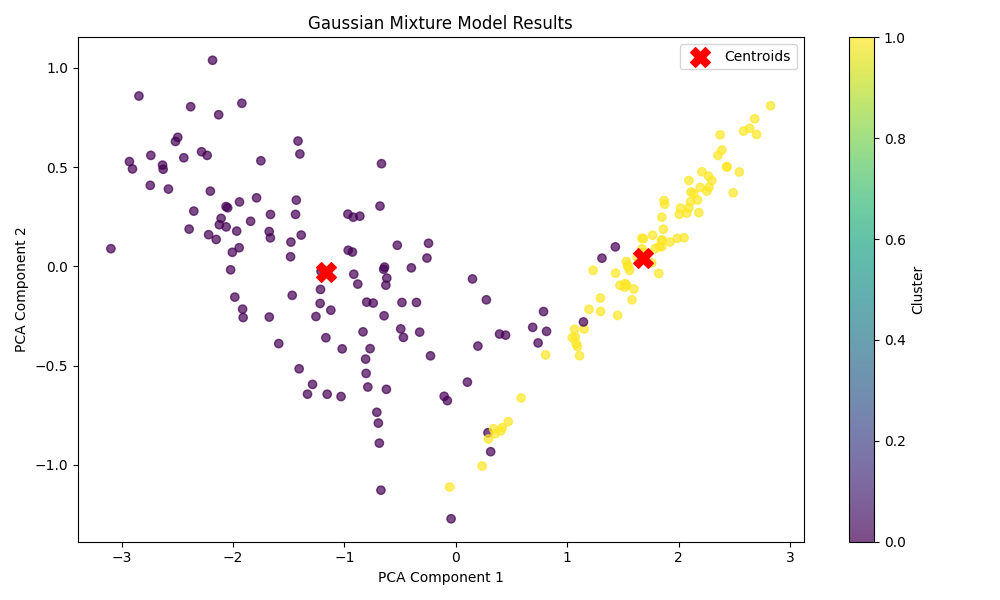
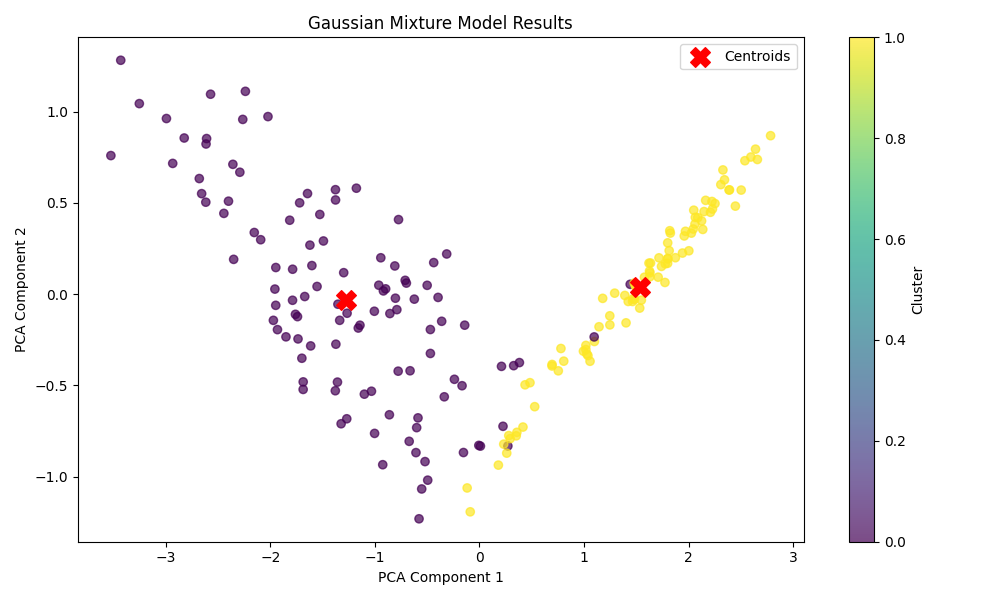
clustering redone

diff --git a/Features_Analysis/Intensity/Data_Analysis/publish2.py b/Features_Analysis/Intensity/Data_Analysis/publish2.py
@@ -36,18 +36,24 @@ def create_histogram_interpolation(data, bins, color, alpha=0.6):
     # Calculate bin centers for interpolation points
     bin_centers = (bin_edges[:-1] + bin_edges[1:]) / 2
 
-    # Add points at the start and end to ensure curve covers full range
-    extended_x = np.concatenate([[data.min()], bin_centers, [data.max()]])
-    extended_y = np.concatenate([[0], counts, [0]])
+    # Filter out bins with zero counts to avoid interpolation issues
+    non_zero_mask = counts > 0
+    if np.sum(non_zero_mask) < 2:
+        # If we have fewer than 2 non-zero bins, use all bins
+        x_points = bin_centers
+        y_points = counts
+    else:
+        x_points = bin_centers[non_zero_mask]
+        y_points = counts[non_zero_mask]
 
-    # Create interpolation function (cubic spline)
-    interp_func = interpolate.interp1d(extended_x, extended_y,
-                                       kind='cubic',
+    # Use linear interpolation to avoid overshooting
+    interp_func = interpolate.interp1d(x_points, y_points,
+                                       kind='linear',
                                        bounds_error=False,
                                        fill_value=0)
 
-    # Generate smooth curve points
-    x_smooth = np.linspace(data.min(), data.max(), 200)
+    # Generate smooth curve points within data range
+    x_smooth = np.linspace(x_points.min(), x_points.max(), 200)
     y_smooth = interp_func(x_smooth)
 
     # Ensure no negative values
@@ -63,7 +69,7 @@ def create_intensity_distribution_comparison_fixed(wing_data, wingtip_distributi
     fig, (ax1, ax2) = plt.subplots(1, 2, figsize=(15, 6))
 
     # 1. Wing Intensity Distribution
-    ax1.set_title('Wing Intensity Distribution', fontsize=14, fontweight='bold')
+    ax1.set_title('Wing Intensity Distribution', fontsize=16, fontweight='bold', pad=20)
     ax1.set_xlabel('Mean Intensity (0-255)')
     ax1.set_ylabel('Density')
 
@@ -71,10 +77,10 @@ def create_intensity_distribution_comparison_fixed(wing_data, wingtip_distributi
         species_data = wing_data[wing_data['species'] == species]['mean_intensity']
         color = SPECIES_COLORS[species]
 
-        # Create histogram bars
+        # Create histogram bars with black edges
         ax1.hist(species_data, bins=INTENSITY_BINS, alpha=0.6,
-                 color=color, density=True,
-                 label=f'{species.replace("_", "-")} (histogram)')
+                 color=color, density=True, edgecolor='black', linewidth=0.8,
+                 label=f'{species.replace("_", "-")}')
 
         # Create proper interpolation curve
         bin_centers, counts, x_smooth, y_smooth = create_histogram_interpolation(
@@ -82,19 +88,24 @@ def create_intensity_distribution_comparison_fixed(wing_data, wingtip_distributi
 
         # Plot interpolation curve
         ax1.plot(x_smooth, y_smooth, color=color, linewidth=2.5,
-                 alpha=0.9, linestyle='-',
-                 label=f'{species.replace("_", "-")} (interpolation)')
+                 alpha=0.9, linestyle='-')
 
-        # Add mean line
+    # Add mean lines after plotting histograms to get proper y-limits
+    for species in wing_data['species'].unique():
+        species_data = wing_data[wing_data['species'] == species]['mean_intensity']
+        color = SPECIES_COLORS[species]
         mean_val = species_data.mean()
         ax1.axvline(mean_val, color=color, linestyle='--', alpha=0.8, linewidth=2)
-        ax1.text(mean_val + 5, ax1.get_ylim()[1] * 0.9, f'Mean: {mean_val:.1f}',
-                 rotation=90, color=color, fontweight='bold', ha='left', va='top')
+        # Position mean labels with larger gap below title, horizontally aligned with the mean line
+        ax1.text(mean_val, 0.98, f'Mean: {mean_val:.1f}',
+                 transform=ax1.get_xaxis_transform(), color=color, fontweight='bold',
+                 ha='center', va='top', fontsize=11)
 
-    ax1.legend()
+    # Position legend further to the right
+    ax1.legend(loc='upper right', bbox_to_anchor=(1.02, 0.98))
 
     # 2. Wingtip Intensity Distribution
-    ax2.set_title('Wingtip Intensity Distribution', fontsize=14, fontweight='bold')
+    ax2.set_title('Wingtip Intensity Distribution', fontsize=16, fontweight='bold', pad=20)
     ax2.set_xlabel('Mean Intensity (0-255)')
     ax2.set_ylabel('Density')
 
@@ -102,10 +113,10 @@ def create_intensity_distribution_comparison_fixed(wing_data, wingtip_distributi
         species_data = wingtip_distribution[wingtip_distribution['species'] == species]['mean_wingtip_intensity']
         color = SPECIES_COLORS[species]
 
-        # Create histogram bars
+        # Create histogram bars with black edges
         ax2.hist(species_data, bins=INTENSITY_BINS, alpha=0.6,
-                 color=color, density=True,
-                 label=f'{species.replace("_", "-")} (histogram)')
+                 color=color, density=True, edgecolor='black', linewidth=0.8,
+                 label=f'{species.replace("_", "-")}')
 
         # Create proper interpolation curve
         bin_centers, counts, x_smooth, y_smooth = create_histogram_interpolation(
@@ -113,16 +124,21 @@ def create_intensity_distribution_comparison_fixed(wing_data, wingtip_distributi
 
         # Plot interpolation curve
         ax2.plot(x_smooth, y_smooth, color=color, linewidth=2.5,
-                 alpha=0.9, linestyle='-',
-                 label=f'{species.replace("_", "-")} (interpolation)')
+                 alpha=0.9, linestyle='-')
 
-        # Add mean line
+    # Add mean lines after plotting histograms to get proper y-limits
+    for species in wingtip_distribution['species'].unique():
+        species_data = wingtip_distribution[wingtip_distribution['species'] == species]['mean_wingtip_intensity']
+        color = SPECIES_COLORS[species]
         mean_val = species_data.mean()
         ax2.axvline(mean_val, color=color, linestyle='--', alpha=0.8, linewidth=2)
-        ax2.text(mean_val + 5, ax2.get_ylim()[1] * 0.9, f'Mean: {mean_val:.1f}',
-                 rotation=90, color=color, fontweight='bold', ha='left', va='top')
+        # Position mean labels with larger gap below title, horizontally aligned with the mean line
+        ax2.text(mean_val, 0.98, f'Mean: {mean_val:.1f}',
+                 transform=ax2.get_xaxis_transform(), color=color, fontweight='bold',
+                 ha='center', va='top', fontsize=11)
 
-    ax2.legend()
+    # Position legend further to the right
+    ax2.legend(loc='upper right', bbox_to_anchor=(1.02, 0.98))
 
     # Ensure both plots have the same x-axis range for better comparison
     x_min = min(wing_data['mean_intensity'].min(), wingtip_distribution['mean_wingtip_intensity'].min())
@@ -184,7 +200,8 @@ def create_overlaid_comparison_fixed(wing_data, wingtip_distribution):
     ax1.set_title('Slaty-backed Gull: Wing vs Wingtip Intensity', fontsize=14, fontweight='bold')
     ax1.set_xlabel('Mean Intensity (0-255)')
     ax1.set_ylabel('Density')
-    ax1.legend()
+    # Move legend to upper right
+    ax1.legend(loc='upper right')
 
     # Species 2: Glaucous-winged Gull
     glaucous_wing = wing_data[wing_data['species'] == 'Glaucous_Winged_Gull']['mean_intensity']
@@ -210,7 +227,8 @@ def create_overlaid_comparison_fixed(wing_data, wingtip_distribution):
     ax2.set_title('Glaucous-winged Gull: Wing vs Wingtip Intensity', fontsize=14, fontweight='bold')
     ax2.set_xlabel('Mean Intensity (0-255)')
     ax2.set_ylabel('Density')
-    ax2.legend()
+    # Move legend to upper right
+    ax2.legend(loc='upper right')
 
     # Ensure consistent x-axis ranges
     all_values = np.concatenate([slaty_wing, slaty_wingtip, glaucous_wing, glaucous_wingtip])
@@ -261,7 +279,8 @@ def create_controlled_kde_comparison(wing_data, wingtip_distribution):
     ax1.set_title('Wing Intensity Distribution (Controlled KDE)', fontsize=14, fontweight='bold')
     ax1.set_xlabel('Mean Intensity (0-255)')
     ax1.set_ylabel('Density')
-    ax1.legend()
+    # Move legend to upper right
+    ax1.legend(loc='upper right')
 
     # 2. Wingtip Intensity Distribution
     for species in wingtip_distribution['species'].unique():
@@ -283,7 +302,8 @@ def create_controlled_kde_comparison(wing_data, wingtip_distribution):
     ax2.set_title('Wingtip Intensity Distribution (Controlled KDE)', fontsize=14, fontweight='bold')
     ax2.set_xlabel('Mean Intensity (0-255)')
     ax2.set_ylabel('Density')
-    ax2.legend()
+    # Move legend to upper right
+    ax2.legend(loc='upper right')
 
     plt.tight_layout()
     plt.savefig(os.path.join(output_dir, 'controlled_kde_comparison.png'),
@@ -316,12 +336,6 @@ def main():
 
     print("Creating wing vs wingtip intensity distribution comparison with proper interpolation...")
     wing_stats, wingtip_stats = create_intensity_distribution_comparison_fixed(wing_data, wingtip_distribution)
-
-    print("Creating within-species comparison with proper interpolation...")
-    create_overlaid_comparison_fixed(wing_data, wingtip_distribution)
-
-    print("Creating controlled KDE comparison...")
-    create_controlled_kde_comparison(wing_data, wingtip_distribution)
 
     print(f"Analysis complete! Charts saved to {output_dir}/")
 

diff --git a/publish/clustering.tex b/publish/clustering.tex
@@ -1,0 +1,168 @@
+\documentclass[a4paper,12pt]{report}
+\usepackage[margin=0.5in]{geometry}
+\usepackage{hyperref}
+\usepackage{setspace}
+\usepackage{lastpage}
+\usepackage{tabularx}
+
+\usepackage[nottoc,numbib]{tocbibind}
+  % Preamble packages:
+\usepackage{booktabs}
+\usepackage{multirow}
+\usepackage{caption}
+\usepackage{multicol}
+\usepackage{caption}
+
+
+
+% for apa with apa
+% \usepackage{natbib}
+% for ieee with IEEEtran
+\usepackage[numbers]{natbib}
+\usepackage{float}
+\usepackage{grffile}  % Add to preamble
+\usepackage{titlesec} % Add this line for chapter formatting
+
+\usepackage{graphicx}
+
+\usepackage{float} % If you use [H] placement
+
+
+% Required in preamble
+\usepackage{pgfplots}      % Core plotting package
+\pgfplotsset{compat=1.18} % Set compatibility mode (use newest version available) % For general graphics handling (usually auto-loaded)
+
+% Required packages in preamble
+\usepackage{algorithm}      % For algorithm float environment
+\usepackage{algpseudocode}  % For algorithmic structure (functions, loops, etc.)
+\usepackage{xspace}         % For smart spacing after macros (optional but recommended)
+
+\usepackage{csquotes}
+
+\renewcommand{\familydefault}{\sfdefault}
+\usepackage{helvet}
+\usepackage{amsmath}
+\usepackage{tikz}
+\usetikzlibrary{positioning}
+
+\renewcommand{\contentsname}{Table of Contents}
+
+\usepackage{graphicx}
+\usepackage{subcaption}
+\usepackage{adjustbox}
+
+\usepackage{booktabs} % For professional quality tables
+\usepackage{caption}  % For captions of figures and tables
+\usepackage{subcaption} % For subfigures within a figure environment
+% \usepackage[backend=biber, style=apa]{biblatex} % Example for bibliography (if needed, adapt style)
+% \addbibresource{references.bib} % Link to your bibliography file
+% \usepackage{hyperref} % Optional: for clickable links and references
+% \usepackage[capitalise]{cleveref} % Optional: for smart cross-referencing (e.g., Figure 1, Table 2)
+
+\newenvironment{smallquote}
+  {\begin{quote}\footnotesize\vspace{0em}}
+  {\vspace{0em}\end{quote}}
+
+
+\usepackage{pgffor}
+% MAKE Smaller
+% make lists small
+\usepackage{enumitem}
+\setlist{nosep} % Removes extra space in itemize/enumerate
+
+\titlespacing*{\section}{0pt}{0.5em}{0.5em}
+\titlespacing*{\subsection}{0pt}{0.5em}{0.5em}
+
+% % \titleformat{\section}
+% %   {\normalfont\normalsize\bfseries}
+% %   {\thesection}{1em}{}
+
+% \titleformat{\subsection}
+%   {\normalfont\small\bfseries}
+%   {\thesubsection}{1em}{}
+
+\setlength{\parindent}{1.5em}
+\setlength{\parskip}{0.5em} % Adjust spacing between paragraphs
+
+% Customise hyperlink appearance (Optional)
+\hypersetup{
+    colorlinks=true,        % Enable colored links
+    linkcolor=black,        % Color for internal links (TOC, sections, etc.)
+    citecolor=black,        % Color for citation links
+    filecolor=black,        % Color for file links
+    urlcolor=blue          % Color for external URLs
+}
+
+% \titleformat{\chapter}[hang]{\normalfont\huge\bfseries}{\thechapter.}{0.5em}{}
+% \titleformat{\chapter}[display]
+%   {\normalfont\Large\bfseries}
+%   {}
+%   {0pt}
+%   {\vspace{-2em}}
+% \titlespacing*{\chapter}{0pt}{-2em}{1em}
+
+% % Chapter title (smaller than default)
+% \titleformat{\chapter}[display]
+%   {\normalfont\Large\bfseries}
+%   {} % No label
+%   {0pt}
+%   {\vspace{-2em}}
+
+% % Section title (even smaller)
+% \titleformat{\section}
+%   {\normalfont\small\bfseries}
+%   {\thesection}{1em}{}
+
+% \titleformat{\chapter}[display]
+%   {\normalfont\LARGE\bfseries}
+%   {\thechapter}{1em}{} % <- this line sets the number before the title
+% \titlespacing*{\chapter}{0pt}{-2em}{1em}
+
+% \usepackage{titlesec}
+
+\titleformat{\chapter}[block] % or [hang]
+  {\normalfont\LARGE\bfseries}
+  {\thechapter}{1em}{}
+
+\titlespacing*{\chapter}{0pt}{-2em}{1em}
+
+
+% Section: Large and bold
+\titleformat{\section}
+  {\normalfont\Large\bfseries}
+  {\thesection}{1em}{}
+\titlespacing*{\section}{0pt}{0.5em}{0.5em}
+
+% Subsection: Slightly smaller than section, bold
+\titleformat{\subsection}
+  {\normalfont\large\bfseries}
+  {\thesubsection}{1em}{}
+\titlespacing*{\subsection}{0pt}{0.4em}{0.4em}
+
+% Subsubsection: Normal size, bold (smaller than subsection)
+\titleformat{\subsubsection}
+  {\normalfont\normalsize\bfseries}
+  {\thesubsubsection}{1em}{}
+\titlespacing*{\subsubsection}{0pt}{0.3em}{0.3em}
+
+\begin{document}
+
+\begin{table}[H]
+    \centering
+    \caption{Performance and confusion matrix summary for clustering algorithms. TP = True Positives, FN = False Negatives, GWG = Glaucous-Winged Gull, SBG = Slaty-Backed Gull.}
+    \label{tab:clustering_metrics}
+    \resizebox{\textwidth}{!}{%
+    \begin{tabular}{lcccccccc}
+    \toprule
+    \textbf{Algorithm} & \textbf{Silhouette} & \textbf{ARI} & \textbf{Accuracy} & \textbf{TP (GWG)} & \textbf{FN (GWG)} & \textbf{TP (SBG)} & \textbf{FN (SBG)} \\
+    \midrule
+    K-means      & 0.574 & 0.809 & 95.00\% & 95 & 5 & 95 & 5 \\
+    Hierarchical & 0.570 & 0.671 & 91.00\% & 91 & 9 & 91 & 9 \\
+    GMM          & 0.540 & 0.827 & 95.50\% & 95 & 5 & 96 & 4 \\
+    \bottomrule
+    \end{tabular}
+    }
+\end{table}
+
+
+\end{document}

diff --git a/Clustering/Compare_Clustering.py b/Clustering/Compare_Clustering.py
@@ -29,7 +29,7 @@ RANDOM_STATE = 42
 def load_data(file_path):
     df = pd.read_csv(file_path)
 
-    features = df[['mean_wing_intensity', 'mean_wingtip_intensity', 'pct_dark_lt_60']]
+    features = df[['mean_wing_intensity', 'mean_wingtip_intensity', 'pct_dark_lt_40']]
 
     # Create mapping if it doesn't exist already
     if 'species' in df.columns:
